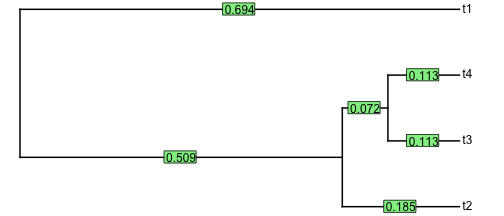
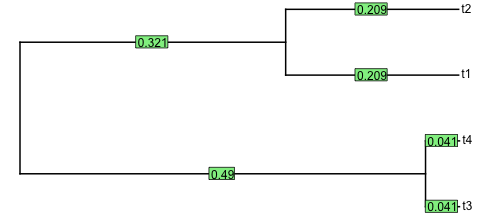
fixing photos

diff --git a/GMcourse/Lectures/06-ShapeStatistics1.html b/GMcourse/Lectures/06-ShapeStatistics1.html
@@ -267,8 +267,8 @@ PCA$rot[, 1:5]
 ```
 
 
-<div class="datatables html-widget html-fill-item" id="htmlwidget-4f0367ea890f579b6997" style="width:100%;height:auto;"></div>
-<script type="application/json" data-for="htmlwidget-4f0367ea890f579b6997">{"x":{"filter":"none","vertical":false,"fillContainer":false,"data":[["1.X","1.Y","2.X","2.Y","3.X","3.Y","4.X","4.Y","5.X","5.Y","6.X","6.Y","7.X","7.Y","8.X","8.Y","9.X","9.Y","10.X","10.Y","11.X","11.Y","12.X","12.Y"],[-0.18519,0.05405,-0.25751,0.12104,0.24555,0.08671,0.01913,0.01574,0.03013,-0.06,0.03942,-0.07298,-0.03292,-0.15883,-0.07436,-0.02267,-0.1294,0.14563,-0.14615,0.04686,0.78142,-0.05272,-0.29012,-0.10285],[0.44578,0.26015,0.14487,0.35368,0.06079,0.15116,-0.00471,-0.10675,-0.04475,-0.10706,-0.02427,-0.16916,-0.14499,-0.08201,-0.0491,-0.01583,0.0163,0.10257,0.07706,0.13217,-0.18989,0.04808,-0.28709,-0.56701],[0.22986,-0.08275,0.21506,0.10056,0.32681,0.00228,-0.20322,0.35931,-0.19877,0.15439,-0.17122,0.009809999999999999,-0.21542,-0.18189,0.06254,-0.16576,0.18179,-0.23899,0.07886,-0.13614,0.01087,-0.20317,-0.31717,0.38235],[-0.26247,0.11272,-0.01087,0.46841,0.47658,-0.04908,-0.11434,-0.00444,-0.05717,0.12899,0.1062,0.0582,0.08944000000000001,0.01527,-0.1435,-0.17252,-0.17443,-0.1315,-0.16718,-0.21664,-0.17314,-0.06654,0.43089,-0.14288],[-0.16719,0.22104,0.02176,-0.25447,0.44786,0.02916,-0.0437,-0.44113,-0.16144,-0.22846,-0.05394,0.14802,0.0188,0.27939,-0.08595,0.08477999999999999,0.38216,0.11626,-0.05794,0.12139,-0.12552,-0.17414,-0.1749,0.09816]],"container":"<table class=\"display\">\n  <thead>\n    <tr>\n      <th> <\/th>\n      <th>Comp1<\/th>\n      <th>Comp2<\/th>\n      <th>Comp3<\/th>\n      <th>Comp4<\/th>\n      <th>Comp5<\/th>\n    <\/tr>\n  <\/thead>\n<\/table>","options":{"pageLength":3,"columnDefs":[{"className":"dt-right","targets":[1,2,3,4,5]},{"orderable":false,"targets":0},{"name":" ","targets":0},{"name":"Comp1","targets":1},{"name":"Comp2","targets":2},{"name":"Comp3","targets":3},{"name":"Comp4","targets":4},{"name":"Comp5","targets":5}],"order":[],"autoWidth":false,"orderClasses":false,"lengthMenu":[3,10,25,50,100]}},"evals":[],"jsHooks":[]}</script>
+<div class="datatables html-widget html-fill-item" id="htmlwidget-22393721229cfd213307" style="width:100%;height:auto;"></div>
+<script type="application/json" data-for="htmlwidget-22393721229cfd213307">{"x":{"filter":"none","vertical":false,"fillContainer":false,"data":[["1.X","1.Y","2.X","2.Y","3.X","3.Y","4.X","4.Y","5.X","5.Y","6.X","6.Y","7.X","7.Y","8.X","8.Y","9.X","9.Y","10.X","10.Y","11.X","11.Y","12.X","12.Y"],[-0.18519,0.05405,-0.25751,0.12104,0.24555,0.08671,0.01913,0.01574,0.03013,-0.06,0.03942,-0.07298,-0.03292,-0.15883,-0.07436,-0.02267,-0.1294,0.14563,-0.14615,0.04686,0.78142,-0.05272,-0.29012,-0.10285],[0.44578,0.26015,0.14487,0.35368,0.06079,0.15116,-0.00471,-0.10675,-0.04475,-0.10706,-0.02427,-0.16916,-0.14499,-0.08201,-0.0491,-0.01583,0.0163,0.10257,0.07706,0.13217,-0.18989,0.04808,-0.28709,-0.56701],[0.22986,-0.08275,0.21506,0.10056,0.32681,0.00228,-0.20322,0.35931,-0.19877,0.15439,-0.17122,0.009809999999999999,-0.21542,-0.18189,0.06254,-0.16576,0.18179,-0.23899,0.07886,-0.13614,0.01087,-0.20317,-0.31717,0.38235],[-0.26247,0.11272,-0.01087,0.46841,0.47658,-0.04908,-0.11434,-0.00444,-0.05717,0.12899,0.1062,0.0582,0.08944000000000001,0.01527,-0.1435,-0.17252,-0.17443,-0.1315,-0.16718,-0.21664,-0.17314,-0.06654,0.43089,-0.14288],[-0.16719,0.22104,0.02176,-0.25447,0.44786,0.02916,-0.0437,-0.44113,-0.16144,-0.22846,-0.05394,0.14802,0.0188,0.27939,-0.08595,0.08477999999999999,0.38216,0.11626,-0.05794,0.12139,-0.12552,-0.17414,-0.1749,0.09816]],"container":"<table class=\"display\">\n  <thead>\n    <tr>\n      <th> <\/th>\n      <th>Comp1<\/th>\n      <th>Comp2<\/th>\n      <th>Comp3<\/th>\n      <th>Comp4<\/th>\n      <th>Comp5<\/th>\n    <\/tr>\n  <\/thead>\n<\/table>","options":{"pageLength":3,"columnDefs":[{"className":"dt-right","targets":[1,2,3,4,5]},{"orderable":false,"targets":0},{"name":" ","targets":0},{"name":"Comp1","targets":1},{"name":"Comp2","targets":2},{"name":"Comp3","targets":3},{"name":"Comp4","targets":4},{"name":"Comp5","targets":5}],"order":[],"autoWidth":false,"orderClasses":false,"lengthMenu":[3,10,25,50,100]}},"evals":[],"jsHooks":[]}</script>
 ]
 
 ---
@@ -1188,11 +1188,11 @@ is an analysis that finds phylogenetically aligned components of the data (most 
 **Covariance matrix**
 
 ```
-##       t2    t3    t4    t1
-## t2 0.694 0.509 0.509 0.000
-## t3 0.509 0.694 0.581 0.000
-## t4 0.509 0.581 0.694 0.000
-## t1 0.000 0.000 0.000 0.694
+##       t3    t4    t1    t2
+## t3 0.531 0.490 0.000 0.000
+## t4 0.490 0.531 0.000 0.000
+## t1 0.000 0.000 0.530 0.321
+## t2 0.000 0.000 0.321 0.530
 ```
 ]
 
@@ -1547,7 +1547,7 @@ $$ \mathbf{A}^T\mathbf{Z} = \left ( \tilde{\mathbf{X}}^{T} \tilde{\mathbf{X}}\ri
 
 .remark-code[.blue[Note that **transformed fitted values** are found as]] `\(\hat{\tilde{\mathbf{Z}}} = \tilde{\mathbf{X}}\hat{\boldsymbol{\beta}}\)`.
 
-.remark-code[.blue[Note that **transformed residuals** are found as]] `\(\tilde{\mathbf{E}} = \tilde{\mathbf{Z}} - \hat{\tilde{\mathbf{Z}}}\)`, where $\mathbf{Z}_{trans} = $
+.remark-code[.blue[Note that **transformed residuals** are found as]] `\(\tilde{\mathbf{E}} = \tilde{\mathbf{Z}} - \hat{\tilde{\mathbf{Z}}}\)`.
 
 Working with transformed fitted values and residuals is important for hypothesis testing.
 ---

diff --git a/GMcourse/Lectures/07-Allometry.html b/GMcourse/Lectures/07-Allometry.html
@@ -59,7 +59,7 @@ class: center, middle, inverse, title-slide
 
 ]
 .pull-right[    
-&lt;img src="LectureData/07.allometry/PosnegAllom.png" width="80%" style="display: block; margin: auto;" /&gt;
+&lt;img src="LectureData/07.allometry/PosnegAllom.png" width="100%" style="display: block; margin: auto;" /&gt;
 ]
 
 --
